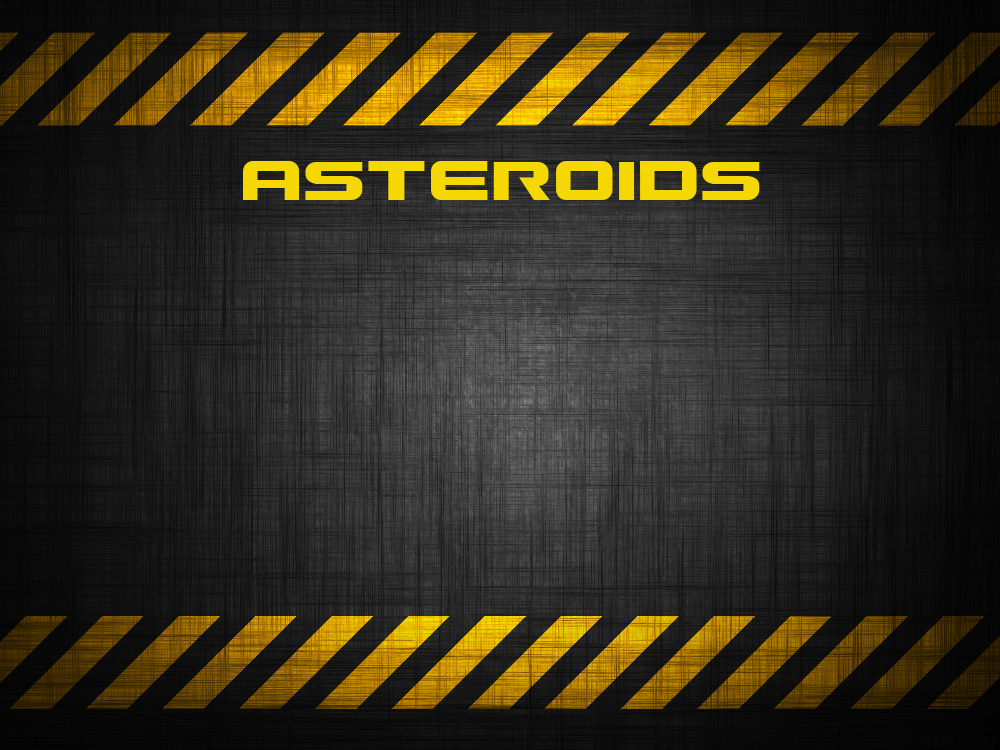
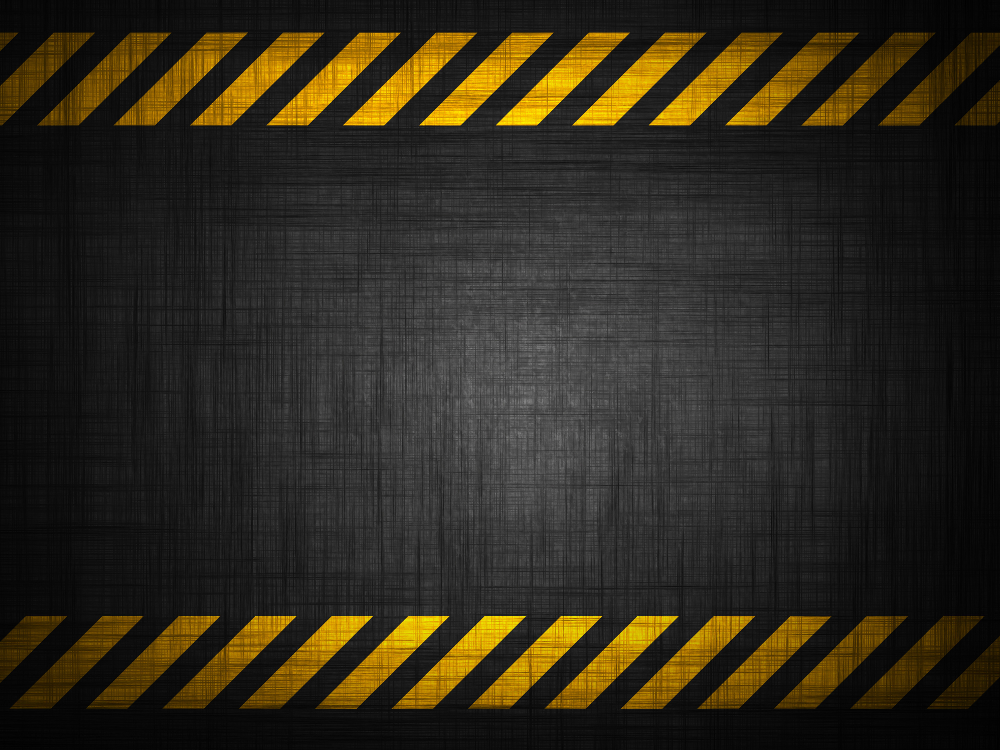
now all titles are dynamically drawn instead of being 'hardcoded' in the image
replaced all menu-background images with one blank one (without title)

Changed region(s): [[0.217, 0.2147, 0.775, 0.276]]

diff --git a/src/GameOver.cpp b/src/GameOver.cpp
@@ -12,7 +12,15 @@ GameOver::GameOver(sf::RenderWindow& renderWindow) :
     btnRestart(sf::Vector2f((Game::getHandle().getResolution().x / 2) - 343.0f, Game::getHandle().getResolution().y - 120.f),"Restart",boost::bind(&GameOver::callbackRestart,this),renderWindow),
     btnMenu(sf::Vector2f((Game::getHandle().getResolution().x / 2) + 10.0f, Game::getHandle().getResolution().y - 120.f),"Menu",boost::bind(&GameOver::callbackMenu,this),renderWindow)
 {
-    texBackground = Game::getHandle().textureManager.acquire(thor::Resources::TextureKey::fromFile("res/gameOverBackground.png"));
+    texBackground = Game::getHandle().textureManager.acquire(thor::Resources::TextureKey::fromFile("res/menuBackground.png"));
+    font = Game::getHandle().fontManager.acquire(thor::Resources::FontKey::fromFile("res/font.ttf"));
+
+    txtTitle.setFont(*font);
+    txtTitle.setString("Game Over!");
+    txtTitle.setCharacterSize(60);
+    txtTitle.setColor(sf::Color(244,215,3));
+    txtTitle.setPosition(Game::getHandle().getResolution().x/2 - txtTitle.getGlobalBounds().width/2, 130.0f);
+
     init();
 }
 
@@ -48,6 +56,7 @@ unsigned short GameOver::update(float deltaTime) {
 void GameOver::draw() {
 
     renderWindow.draw(background);
+    renderWindow.draw(txtTitle);
 
     btnRestart.draw();
     btnMenu.draw();

diff --git a/src/GameOverNewHighscore.cpp b/src/GameOverNewHighscore.cpp
@@ -12,8 +12,14 @@ GameOverNewHighscore::GameOverNewHighscore(sf::RenderWindow& renderWindow) :
     btnOK(sf::Vector2f((Game::getHandle().getResolution().x / 2) - 166.0f, Game::getHandle().getResolution().y - 120.f),"OK",boost::bind(&GameOverNewHighscore::callbackOK,this),renderWindow),
     maxNameLength(10)
 {
-    texBackground = Game::getHandle().textureManager.acquire(thor::Resources::TextureKey::fromFile("res/gameOverBackground.png"));
+    texBackground = Game::getHandle().textureManager.acquire(thor::Resources::TextureKey::fromFile("res/menuBackground.png"));
     font = Game::getHandle().fontManager.acquire(thor::Resources::FontKey::fromFile("res/font.ttf"));
+
+    txtTitle.setFont(*font);
+    txtTitle.setString("Game Over!");
+    txtTitle.setCharacterSize(60);
+    txtTitle.setColor(sf::Color(244,215,3));
+    txtTitle.setPosition(Game::getHandle().getResolution().x/2 - txtTitle.getGlobalBounds().width/2, 130.0f);
 
     txtNewHighscore.setFont(*font);
     txtNewHighscore.setString("New Highscore!");
@@ -65,6 +71,7 @@ unsigned short GameOverNewHighscore::update(float deltaTime) {
 void GameOverNewHighscore::draw() {
 
     renderWindow.draw(background);
+    renderWindow.draw(txtTitle);
     renderWindow.draw(txtNewHighscore);
     renderWindow.draw(txtName);
 

diff --git a/src/MainMenu.cpp b/src/MainMenu.cpp
@@ -17,6 +17,13 @@ MainMenu::MainMenu(sf::RenderWindow& renderWindow) :
 {
     texBackground = Game::getHandle().textureManager.acquire(thor::Resources::TextureKey::fromFile("res/menuBackground.png"));
     font = Game::getHandle().fontManager.acquire(thor::Resources::FontKey::fromFile("res/font.ttf"));
+
+    txtTitle.setFont(*font);
+    txtTitle.setString("Asteroids");
+    txtTitle.setCharacterSize(60);
+    txtTitle.setColor(sf::Color(244,215,3));
+    txtTitle.setPosition(Game::getHandle().getResolution().x/2 - txtTitle.getGlobalBounds().width/2, 130.0f);
+
     init();
 }
 
@@ -70,6 +77,7 @@ unsigned short MainMenu::update(float deltaTime) {
 void MainMenu::draw() {
 
     renderWindow.draw(background);
+    renderWindow.draw(txtTitle);
     renderWindow.draw(version);
 
     btnResume.draw();

diff --git a/include/GameOver.hpp b/include/GameOver.hpp
@@ -31,8 +31,10 @@ private:
 	Button btnRestart, btnMenu;
 	sf::RenderWindow& renderWindow;
 	thor::ResourcePtr<sf::Texture> texBackground;
+    thor::ResourcePtr<sf::Font> font;
 	sf::Sprite background;
 	bool initialized;
 	unsigned short newState;
+    sf::Text txtTitle;
 
 };

diff --git a/include/GameOverNewHighscore.hpp b/include/GameOverNewHighscore.hpp
@@ -35,6 +35,7 @@ private:
     unsigned short newState;
     thor::ResourcePtr<sf::Font> font;
     std::string name;
+    sf::Text txtTitle;
     sf::Text txtNewHighscore;
     sf::Text txtName;
     unsigned short maxNameLength;

diff --git a/include/MainMenu.hpp b/include/MainMenu.hpp
@@ -38,5 +38,6 @@ private:
 	sf::Text version;
 	bool initialized;
 	unsigned short newState;
+    sf::Text txtTitle;
 
 };
